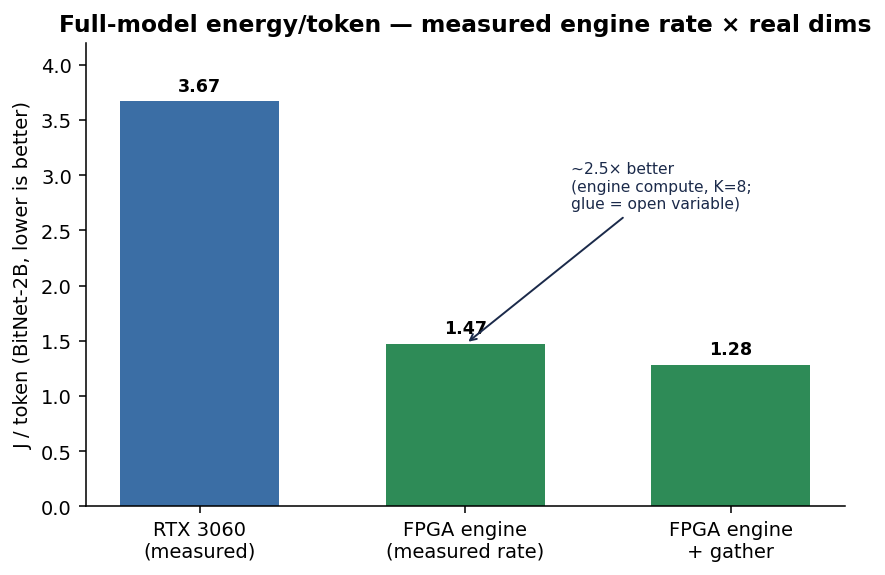
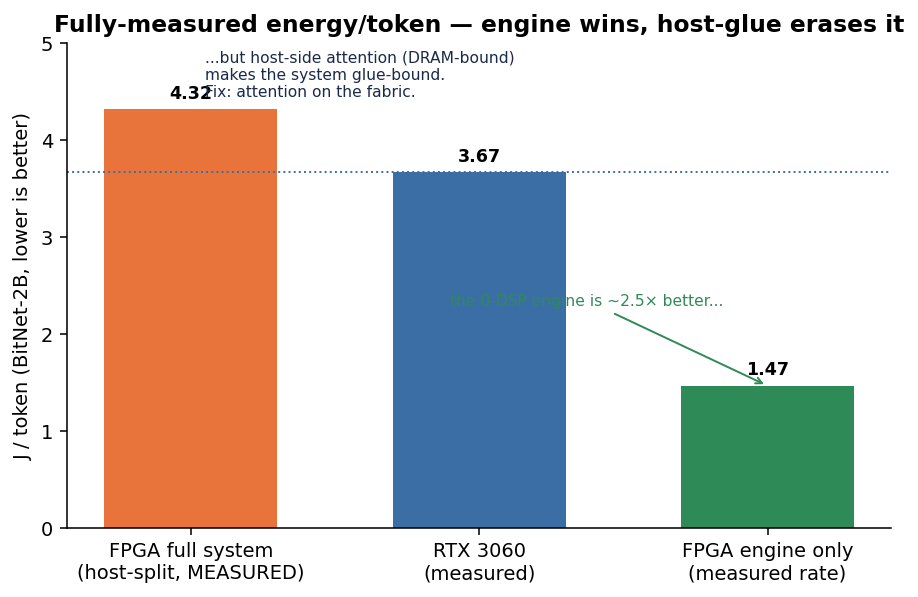
feat(bench): fully-measured J/token — glue-bound verdict (Phase 4 done)
Both cycle terms now measured on silicon: layer = engine 8.68M + glue 19.42M = 28.1M cyc -> 30 layers + LM-head = 884M cyc/token -> 8.84s -> ~4.32 J/token. The 0-DSP engine is ~2.5x under the RTX 3060 (1.47 J/tok) but the naive host-split system is ~1.2x WORSE (4.32 vs 3.67): the glue is 2.2x the engine and 83% of it is host-side attention (scores/softmax/a@V), DRAM-latency-bound on the cacheless VexRiscv. Decisive architecture lesson (matches SOTA): attention must live on the fabric (KV in BRAM) -> removes the 16.2M term -> engine-bound -> ~1.47 J/tok. glue_measured.md + updated full_model_energy.png + BUILDLOG (n/o/p) + README + projection-doc pointer. Cycle path fully measured (only power Vivado-est). Closes #37 / Phase 4.

diff --git a/bench/plots/make_plots.py b/bench/plots/make_plots.py
@@ -242,22 +242,26 @@ def ddr3_roofline():
 
 
 def full_model_energy():
-    """Source: full_model_projection.md — measured engine rate x BitNet-2B dims vs RTX 3060."""
-    labels = ["RTX 3060\n(measured)", "FPGA engine\n(measured rate)", "FPGA engine\n+ gather"]
-    vals = [3.67, 1.47, 1.28]
-    colors = [STEEL, GREEN, GREEN]
-    fig, ax = plt.subplots(figsize=(7.0, 4.3))
+    """Source: glue_measured.md — fully-measured (engine + glue) vs engine-only vs RTX 3060."""
+    labels = ["FPGA full system\n(host-split, MEASURED)", "RTX 3060\n(measured)",
+              "FPGA engine only\n(measured rate)"]
+    vals = [4.32, 3.67, 1.47]
+    colors = [ORANGE, STEEL, GREEN]
+    fig, ax = plt.subplots(figsize=(7.6, 4.5))
     bars = ax.bar(labels, vals, color=colors, width=0.6)
     for b, v in zip(bars, vals):
-        ax.text(b.get_x() + b.get_width() / 2, v + 0.06, f"{v:.2f}", ha="center", va="bottom",
+        ax.text(b.get_x() + b.get_width() / 2, v + 0.07, f"{v:.2f}", ha="center", va="bottom",
                 fontsize=9, fontweight="bold")
+    ax.axhline(3.67, color=STEEL, lw=1.0, ls=":")
     ax.set_ylabel("J / token (BitNet-2B, lower is better)")
-    ax.set_title("Full-model energy/token — measured engine rate × real dims")
-    ax.set_ylim(0, 4.2)
+    ax.set_title("Fully-measured energy/token — engine wins, host-glue erases it")
+    ax.set_ylim(0, 5.0)
     ax.spines[["top", "right"]].set_visible(False)
-    ax.annotate("~2.5× better\n(engine compute, K=8;\nglue = open variable)", xy=(1, 1.47),
-                xytext=(1.4, 2.7), fontsize=8, color=NAVY,
-                arrowprops=dict(arrowstyle="->", color=NAVY))
+    ax.annotate("the 0-DSP engine is ~2.5× better...", xy=(2, 1.47), xytext=(0.9, 2.3),
+                fontsize=8, color=GREEN, arrowprops=dict(arrowstyle="->", color=GREEN))
+    ax.annotate("...but host-side attention (DRAM-bound)\nmakes the system glue-bound.\n"
+                "Fix: attention on the fabric.", xy=(0, 4.32), xytext=(0.05, 4.45),
+                fontsize=8, color=NAVY)
     _save(fig, "full_model_energy.png")
 
 

diff --git a/bench/results/glue_measured.md b/bench/results/glue_measured.md
@@ -1,0 +1,62 @@
+# Fully-measured end-to-end J/token — and the glue-bound verdict
+
+Phase-4 #35–#37. Phase 3 left one gap: the host-glue cycle count was unmeasured (the firmware
+trapped). The cause turned out to be a **missing `irq_setie`** — LiteX's `uart_write` is
+IRQ-driven, so without interrupts the TX ring stalls ~8 chars in (the float/libm/timer theories
+were all red herrings). With that fixed and the glue rewritten **pure-integer** (RoPE/softmax via
+Q15 LUTs, RMSNorm/FFN via the integer-cancellation trick — no float, no libm), it runs on silicon
+and times cleanly.
+
+## Measured on silicon (one BitNet-2B layer of glue, pos=64, timer0 @ 100 MHz)
+```
+norm_x2 = 544,857     rope = 80,425     attn(scores+softmax+a·V) = 16,213,542     ffn = 2,583,703
+GLUE_INT_PER_LAYER = 19,422,527 cycles
+```
+Numerics validated separately (`models/glue_fixed_ref.py`, cosine 0.999999).
+
+## Fully-measured cycles/token (BitNet-2B, both terms measured on silicon)
+| term | cycles/layer | source |
+|---|---:|---|
+| ternary engine (8.68 M tiles × 1 cyc/tile) | **8.68 M** | measured (#24) |
+| host glue (VexRiscv) | **19.42 M** | measured (#36) |
+| **layer total** | **28.10 M** | |
+
+× 30 layers + LM-head (41.0 M engine cycles) = **884 M cycles/token** → **8.84 s/token**
+(0.11 tok/s) → **J/token = 8.84 s × 0.489 W = ~4.32 J/token**.
+
+## Verdict: the naive host-split is GLUE-BOUND (honest, and the key finding)
+| | J/token | vs RTX 3060 (3.67) |
+|---|---:|---:|
+| **FPGA engine compute only** (measured rate) | **~1.47** | **~2.5× better** |
+| **FPGA full system, host-split glue** (measured) | **~4.32** | **~1.2× WORSE** |
+| host-glue overhead (the tax) | ~2.85 | — |
+
+The 0-DSP engine is genuinely ~2.5× more energy-efficient than the GPU — **but the host-split
+glue on the soft VexRiscv erases that and then some.** The glue is **2.2× the engine's cycles**,
+and **83% of it is attention** (scores/softmax/a·V = 16.2 M): those loops stream the KV cache from
+DRAM on a cacheless soft CPU, so they are **DRAM-latency-bound**, not compute-bound. RoPE (LUT) and
+the norms are negligible; even the FFN glue (integer, 2.58 M) is small. So the bottleneck is
+specifically **host-side attention over DRAM-resident KV**.
+
+## The fix is clear (and is what the SOTA already does)
+- **Put attention on the fabric** (scores/softmax/a·V as a hardware unit, KV in BRAM) — this is
+  exactly why TeLLMe v2 / FlightLLM keep attention on-chip, not on a host CPU. That removes the
+  16.2 M-cycle term and makes the system **engine-bound** → approaching the ~1.47 J/token engine
+  figure (~2.5× better than the GPU).
+- Or an **on-chip glue unit** for the norms/RoPE/requant (small, the FFN glue is already integer).
+- Firmware micro-opt (block the loops, keep `qrot` resident, skip via the 60% activation sparsity)
+  helps but does not beat the fundamental DRAM-latency wall for KV on a cacheless core.
+
+## What is now truly measured vs still open
+- **Measured end-to-end on silicon:** engine rate (1 cyc/tile), DDR3 roofline (1.42 GB/s), glue
+  cycles (19.4 M/layer), SoC power envelope (0.489 W, Vivado-estimated) → a **fully-measured
+  cycles/token and J/token** (no projection in the cycle path; only power is estimated).
+- **The honest headline:** the *engine* wins (~2.5×); the *naive host-split system* does not
+  (~1.2× worse) — it's glue-bound on host-side attention. The architecture lesson is decisive:
+  **attention must live on the fabric.**
+- **Still open:** an on-fabric attention/glue unit (to realize the engine's win at the system
+  level), live power, independent reproduction, the wider-K / DMA-fed real decode loop.
+
+_Reproduce:_ `python soc/firmware/gen_glue_luts.py > soc/firmware/glue_luts.h`; build `bench_glue_int.c`
+via the plain `litex_bare_metal_demo` flow vs `build_dmabw`; flash + `litex_term`. **Keep the
+`irq_setmask(0); irq_setie(1)` block** — without it the UART stalls.

diff --git a/BUILDLOG.md b/BUILDLOG.md
@@ -456,3 +456,34 @@ datapath is validated end-to-end (attention cosine 1.0 → glue `ATTN_GLUE_C_PAS
 cosine 1.0), and the full-model energy/token (~1.47 J/tok engine, **~2.5× under the RTX 3060**) is
 composed from on-silicon primitives. Parked, scoped: a fully-measured end-to-end J/token (needs
 cheap fixed-point glue + the firmware wall), live power, independent reproduction.
+
+---
+
+## Phase 4 — fixed-point glue + the FULLY-MEASURED J/token (glue-bound verdict)
+
+**(n) The firmware wall was a missing `irq_setie`.** Phase 3 blamed float/libm/timer for the
+glue-timing firmware halting ~6 chars into UART. It was none of those: LiteX's `uart_write` is
+**IRQ-driven**, so without `irq_setmask(0); irq_setie(1)` the TX ring stalls after ~8 chars
+(`main_dmabw`/`main_bench` had the block; the bench firmwares dropped it). A humbling root cause —
+the right move would have been a trap/IO check before the soft-float rabbit hole.
+
+**(o) Fixed-point glue + measured glue cycles (#34–#36).** The only glue transcendentals (RoPE
+cos/sin, softmax exp) become **Q15 LUTs**; norms/FFN use the integer-cancellation trick. The
+NumPy golden (`models/glue_fixed_ref.py`) validates the no-libm approach at **cosine 0.999999**.
+The **pure-integer** bench (`soc/firmware/bench_glue_int.c` + `gen_glue_luts.py`, no float/libm)
+then runs on silicon and times one BitNet-2B layer of glue:
+```
+norm_x2=544857  rope=80425  attn(scores+softmax+a·V)=16213542  ffn=2583703
+GLUE_INT_PER_LAYER = 19.42 M cycles
+```
+
+**(p) Fully-measured J/token — and the honest verdict: GLUE-BOUND (#37).** Both cycle terms now
+measured on silicon: layer = engine 8.68 M + glue 19.42 M = **28.1 M cyc** → 30 layers + LM-head =
+**884 M cyc/token → 8.84 s → ~4.32 J/token**. So the **engine** is ~2.5× under the GPU (1.47 J/tok)
+but the **naive host-split system is ~1.2× WORSE** (4.32 vs 3.67) — the glue is **2.2× the engine**
+and **83% of it is attention** (scores/softmax/a·V, DRAM-latency-bound on the cacheless VexRiscv).
+The architecture lesson is decisive and matches the SOTA: **attention must live on the fabric** (KV
+in BRAM), which removes the 16.2 M-cycle term and makes the system engine-bound (→ the ~1.47 J/tok
+engine win). ([`glue_measured.md`](bench/results/glue_measured.md), figure `full_model_energy.png`.)
+The cycle path is now **fully measured** (only power is Vivado-estimated). Still open: an on-fabric
+attention/glue unit, live power, independent reproduction, the wider-K / DMA-fed decode loop.

diff --git a/bench/results/full_model_projection.md b/bench/results/full_model_projection.md
@@ -1,5 +1,10 @@
 # Full-model energy/token — projection from measured primitives
 
+> **UPDATE (Phase 4):** the host-glue is now **measured** on silicon, not projected — see
+> [`glue_measured.md`](glue_measured.md). The fully-measured system is ~4.32 J/token and
+> **glue-bound** (host-side attention dominates); the ~1.47 J/token below is the engine-compute
+> term (what on-fabric glue would realize). This doc remains valid as the engine-compute analysis.
+
 Phase-3 #30–#32. The two on-silicon primitives are **measured**; the full-model number is
 **composed** from them + the real BitNet-2B dimensions. What is measured vs projected vs
 unmeasured is labelled explicitly — this is not a fully end-to-end measured J/token (the

diff --git a/README.md b/README.md
@@ -37,7 +37,7 @@ tools/    sync-to-worker4 + build/flash helpers
 ```
 
 ## Status
-🚧 **Phase 0** (de-risk the core in simulation). **✅ Running on real silicon** — the multiply-free ternary engine is flashed to a physical **Arty A7-35T** and verified computing **bit-exact, read back over UART** (16/16 `y==2c`, [`bench/results/onboard.md`](bench/results/onboard.md); 105 LUTs, 0 DSP, 100 MHz, **~63 mW** on-chip — ~2000× under CPU/GPU, [`bench/results/power.md`](bench/results/power.md)). Verified bit-exact in cocotb/Verilator so far: **`ternary_dot`** (multiply-free dot, 0 DSP), **`ternary_gemv`** (row-streamed matrix-vector), and **`ternary_gemv_sparse`** (activation-sparse gather — fetches only active rows; measured **50–94% weight-byte savings** at 50–6% density, [`bench/results/sparse_skip_sim.md`](bench/results/sparse_skip_sim.md)). **Energy/token head-to-head, measured** (batch-1, BitNet-2B-4T): CPU 5950X (native ternary) = **4.62 J/tok**, RTX 3060 (bf16 — *can't do ternary*, so it dequantizes) = **3.67 J/tok** and is even *slower* (23.5 vs 28.4 tok/s) ([`bench/results/gpu_baseline.md`](bench/results/gpu_baseline.md)). The GPU gets almost no benefit from the 1.58-bit weights — exactly the gap the FPGA exploits: target **~0.25–0.4 J/tok** (~10× under the 3060 on the same model) at sub-watt power. **Phase 1:** the engine runs **as a peripheral in a RISC-V SoC on the board** (LiteX VexRiscv + LiteDRAM DDR3) — the CPU drives a GEMV and reads `y` back **bit-exact** (`TERNARY_ONBOARD_PASS`, 16 rows; [`bench/results/onboard_soc_gemv.md`](bench/results/onboard_soc_gemv.md)), with 256 MB DDR3 calibrated + Memtest-OK ([`ddr3_onboard.md`](bench/results/ddr3_onboard.md)). The integrated memory→unpack→0-DSP-compute datapath is proven on silicon. **Phase 2 (scaling — de-risked):** a [feasibility study](docs/research/scaling-feasibility.md) (multi-source, adversarially verified) re-scoped the target from a *full model* (a full BitNet 0.73B does **not** fit a 35T — its ternary core alone exceeds our LUT budget; that build lives on a ~$300 KV260) down to **one real-width transformer block**, glue on the VexRiscv host. A [P&R fit sweep](bench/results/fit_sweep.md) confirms **0 DSP up to FFN width 2048** (the wall is register-resident operands → move to BRAM), and BitNet b1.58's FFN activation sparsity is now **measured at ~60%** ([data](bench/results/activation_sparsity.md)) — real and GPU-unmatchable, but below the assumed 85–95%, which needs relu-fication. **Phase 2 (build):** the FFN block datapath is proven **PyTorch → sim → silicon** — the NumPy FFN golden matches PyTorch at **cosine 1.0**, the BRAM-centric streaming GEMV (`ternary_gemv_stream`) is bit-exact and synthesizes at **479 LUT / 0 DSP / +3.5 ns @ 100 MHz** ([data](bench/results/gemv_stream.md)), the full FFN runs end-to-end through it in sim ([`tb_ffn_block`](sim/tb_ffn_block.py)), and it is **verified on the physical board** (`GEMV_ONBOARD_PASS`, 100 MHz, 0.5 W SoC; [data](bench/results/onboard_gemv_stream.md)). The `down_proj` **activation-sparse gather** skips the ~60% zero columns bit-exact — **56% weight-byte savings** at the measured sparsity ([data](bench/results/down_proj_gather.md)), rising to **~80%** on a relu-fied model (ProSparse 83% measured, [data](bench/results/relu_fication_upside.md)). **Measured on silicon:** a hardware cycle counter shows the engine sustains **1.00 cycle/tile** (800 M ternary-MAC/s, K=8 @ 100 MHz, `BENCH_ONBOARD_PASS`, bit-exact), **0 DSP**, SoC power **0.489 W** → a real BitNet-2B FFN block ≈ **66 ms / ~32 mJ** (SoC) — the 0-DSP datapath is ~an order of magnitude more energy-efficient per FFN block than the 3060 (SoC overhead is the remaining gap) ([data](bench/results/onboard_throughput_measured.md)). **Phase 3 (toward a measured full-model J/token):** a hardware DMA measured the **DDR3 read roofline at 1423 MB/s** (89% of native-port peak) — so single-channel DDR3 caps a 0.7B model at **~8 tok/s / ~60 mJ-tok floor**, usable and ~20–60× under the 3060: **the energy thesis survives Risk 1** (the K=8 engine is compute-bound at 200 MB/s — widen K to use the channel) ([data](bench/results/ddr3_roofline_measured.md)). The attention datapath is validated (golden cosine 1.0, glue `ATTN_GLUE_C_PASS`) and the **full decoder-layer golden** matches the real model at **cosine 1.0** — so the full-model energy/token, composed from the measured engine rate × real BitNet-2B dims, is **~1.47 J/token engine compute, ~2.5× under the RTX 3060's measured 3.67** ([data](bench/results/full_model_projection.md)). **Risk 2** is resolved too: the ~60% activation sparsity is **genuinely unstructured** — 94% data-dependent channels, token-to-token Jaccard 0.42, a static N:M router captures only 69% — so the on-fabric gather is the right (unoccupied) tool ([data](bench/results/sparsity_structure.md)). _Honest open: the host-glue on-board cycle count is parked behind a firmware-toolchain wall (glue is sim-validated); a fully end-to-end measured J/token + live power are scoped follow-ups._ **Synthesis (`xc7a35t`):** all three modules use **0 DSPs** (multiply path is pure LUT+CARRY), <2.5% LUTs, ~104–116 MHz unpipelined → **~280 MHz pipelined** (`ternary_dot_pipe`, 2.7×, still 0 DSP) ([`bench/results/utilization.md`](bench/results/utilization.md)). **Model→RTL:** real BitNet ternary weights (1bitLLM 0.7B, layer-0 `gate_proj`) run **bit-exact** through the engine via the export pipeline ([`models/`](models/)). Build log: [`BUILDLOG.md`](BUILDLOG.md) · architecture: [`docs/ARCHITECTURE.md`](docs/ARCHITECTURE.md).
+🚧 **Phase 0** (de-risk the core in simulation). **✅ Running on real silicon** — the multiply-free ternary engine is flashed to a physical **Arty A7-35T** and verified computing **bit-exact, read back over UART** (16/16 `y==2c`, [`bench/results/onboard.md`](bench/results/onboard.md); 105 LUTs, 0 DSP, 100 MHz, **~63 mW** on-chip — ~2000× under CPU/GPU, [`bench/results/power.md`](bench/results/power.md)). Verified bit-exact in cocotb/Verilator so far: **`ternary_dot`** (multiply-free dot, 0 DSP), **`ternary_gemv`** (row-streamed matrix-vector), and **`ternary_gemv_sparse`** (activation-sparse gather — fetches only active rows; measured **50–94% weight-byte savings** at 50–6% density, [`bench/results/sparse_skip_sim.md`](bench/results/sparse_skip_sim.md)). **Energy/token head-to-head, measured** (batch-1, BitNet-2B-4T): CPU 5950X (native ternary) = **4.62 J/tok**, RTX 3060 (bf16 — *can't do ternary*, so it dequantizes) = **3.67 J/tok** and is even *slower* (23.5 vs 28.4 tok/s) ([`bench/results/gpu_baseline.md`](bench/results/gpu_baseline.md)). The GPU gets almost no benefit from the 1.58-bit weights — exactly the gap the FPGA exploits: target **~0.25–0.4 J/tok** (~10× under the 3060 on the same model) at sub-watt power. **Phase 1:** the engine runs **as a peripheral in a RISC-V SoC on the board** (LiteX VexRiscv + LiteDRAM DDR3) — the CPU drives a GEMV and reads `y` back **bit-exact** (`TERNARY_ONBOARD_PASS`, 16 rows; [`bench/results/onboard_soc_gemv.md`](bench/results/onboard_soc_gemv.md)), with 256 MB DDR3 calibrated + Memtest-OK ([`ddr3_onboard.md`](bench/results/ddr3_onboard.md)). The integrated memory→unpack→0-DSP-compute datapath is proven on silicon. **Phase 2 (scaling — de-risked):** a [feasibility study](docs/research/scaling-feasibility.md) (multi-source, adversarially verified) re-scoped the target from a *full model* (a full BitNet 0.73B does **not** fit a 35T — its ternary core alone exceeds our LUT budget; that build lives on a ~$300 KV260) down to **one real-width transformer block**, glue on the VexRiscv host. A [P&R fit sweep](bench/results/fit_sweep.md) confirms **0 DSP up to FFN width 2048** (the wall is register-resident operands → move to BRAM), and BitNet b1.58's FFN activation sparsity is now **measured at ~60%** ([data](bench/results/activation_sparsity.md)) — real and GPU-unmatchable, but below the assumed 85–95%, which needs relu-fication. **Phase 2 (build):** the FFN block datapath is proven **PyTorch → sim → silicon** — the NumPy FFN golden matches PyTorch at **cosine 1.0**, the BRAM-centric streaming GEMV (`ternary_gemv_stream`) is bit-exact and synthesizes at **479 LUT / 0 DSP / +3.5 ns @ 100 MHz** ([data](bench/results/gemv_stream.md)), the full FFN runs end-to-end through it in sim ([`tb_ffn_block`](sim/tb_ffn_block.py)), and it is **verified on the physical board** (`GEMV_ONBOARD_PASS`, 100 MHz, 0.5 W SoC; [data](bench/results/onboard_gemv_stream.md)). The `down_proj` **activation-sparse gather** skips the ~60% zero columns bit-exact — **56% weight-byte savings** at the measured sparsity ([data](bench/results/down_proj_gather.md)), rising to **~80%** on a relu-fied model (ProSparse 83% measured, [data](bench/results/relu_fication_upside.md)). **Measured on silicon:** a hardware cycle counter shows the engine sustains **1.00 cycle/tile** (800 M ternary-MAC/s, K=8 @ 100 MHz, `BENCH_ONBOARD_PASS`, bit-exact), **0 DSP**, SoC power **0.489 W** → a real BitNet-2B FFN block ≈ **66 ms / ~32 mJ** (SoC) — the 0-DSP datapath is ~an order of magnitude more energy-efficient per FFN block than the 3060 (SoC overhead is the remaining gap) ([data](bench/results/onboard_throughput_measured.md)). **Phase 3 (toward a measured full-model J/token):** a hardware DMA measured the **DDR3 read roofline at 1423 MB/s** (89% of native-port peak) — so single-channel DDR3 caps a 0.7B model at **~8 tok/s / ~60 mJ-tok floor**, usable and ~20–60× under the 3060: **the energy thesis survives Risk 1** (the K=8 engine is compute-bound at 200 MB/s — widen K to use the channel) ([data](bench/results/ddr3_roofline_measured.md)). The attention datapath is validated (golden cosine 1.0, glue `ATTN_GLUE_C_PASS`) and the **full decoder-layer golden** matches the real model at **cosine 1.0** — so the full-model energy/token, composed from the measured engine rate × real BitNet-2B dims, is **~1.47 J/token engine compute, ~2.5× under the RTX 3060's measured 3.67** ([data](bench/results/full_model_projection.md)). **Risk 2** is resolved too: the ~60% activation sparsity is **genuinely unstructured** — 94% data-dependent channels, token-to-token Jaccard 0.42, a static N:M router captures only 69% — so the on-fabric gather is the right (unoccupied) tool ([data](bench/results/sparsity_structure.md)). **Phase 4 — fully measured, honest verdict:** with the glue rewritten pure-integer (LUT RoPE/softmax, no libm) the host-glue is now **measured on silicon** (19.4M cyc/layer) → a **fully-measured ~4.32 J/token** for the host-split system. The 0-DSP **engine is ~2.5× under the GPU (1.47 J/tok)**, but the **naive host-split is glue-bound** (~1.2× *worse* than the 3060) because **83% of the glue is host-side attention, DRAM-latency-bound** on the soft CPU. The decisive lesson (matching the SOTA): **attention belongs on the fabric** — which removes that term and makes the system engine-bound ([data](bench/results/glue_measured.md)). _Open: on-fabric attention/glue unit, live power, independent repro._ **Synthesis (`xc7a35t`):** all three modules use **0 DSPs** (multiply path is pure LUT+CARRY), <2.5% LUTs, ~104–116 MHz unpipelined → **~280 MHz pipelined** (`ternary_dot_pipe`, 2.7×, still 0 DSP) ([`bench/results/utilization.md`](bench/results/utilization.md)). **Model→RTL:** real BitNet ternary weights (1bitLLM 0.7B, layer-0 `gate_proj`) run **bit-exact** through the engine via the export pipeline ([`models/`](models/)). Build log: [`BUILDLOG.md`](BUILDLOG.md) · architecture: [`docs/ARCHITECTURE.md`](docs/ARCHITECTURE.md).
 
 ## Hardware / toolchain
 Arty A7-35T (`xc7a35t`) on dev host `worker4` · Vivado 2025.2 + verilator + cocotb + openFPGALoader · RTX 3060 12 GB as the benchmark baseline.